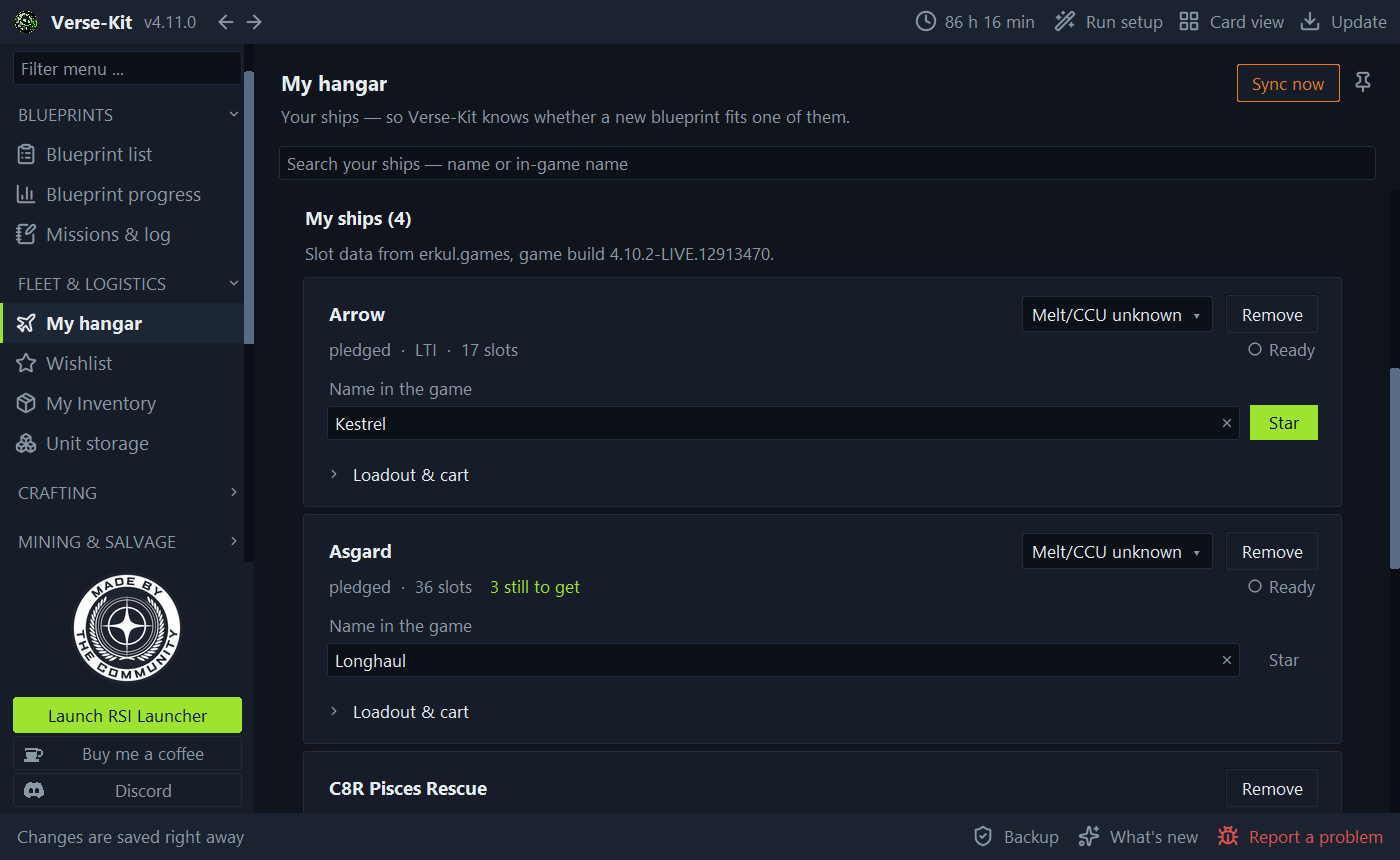
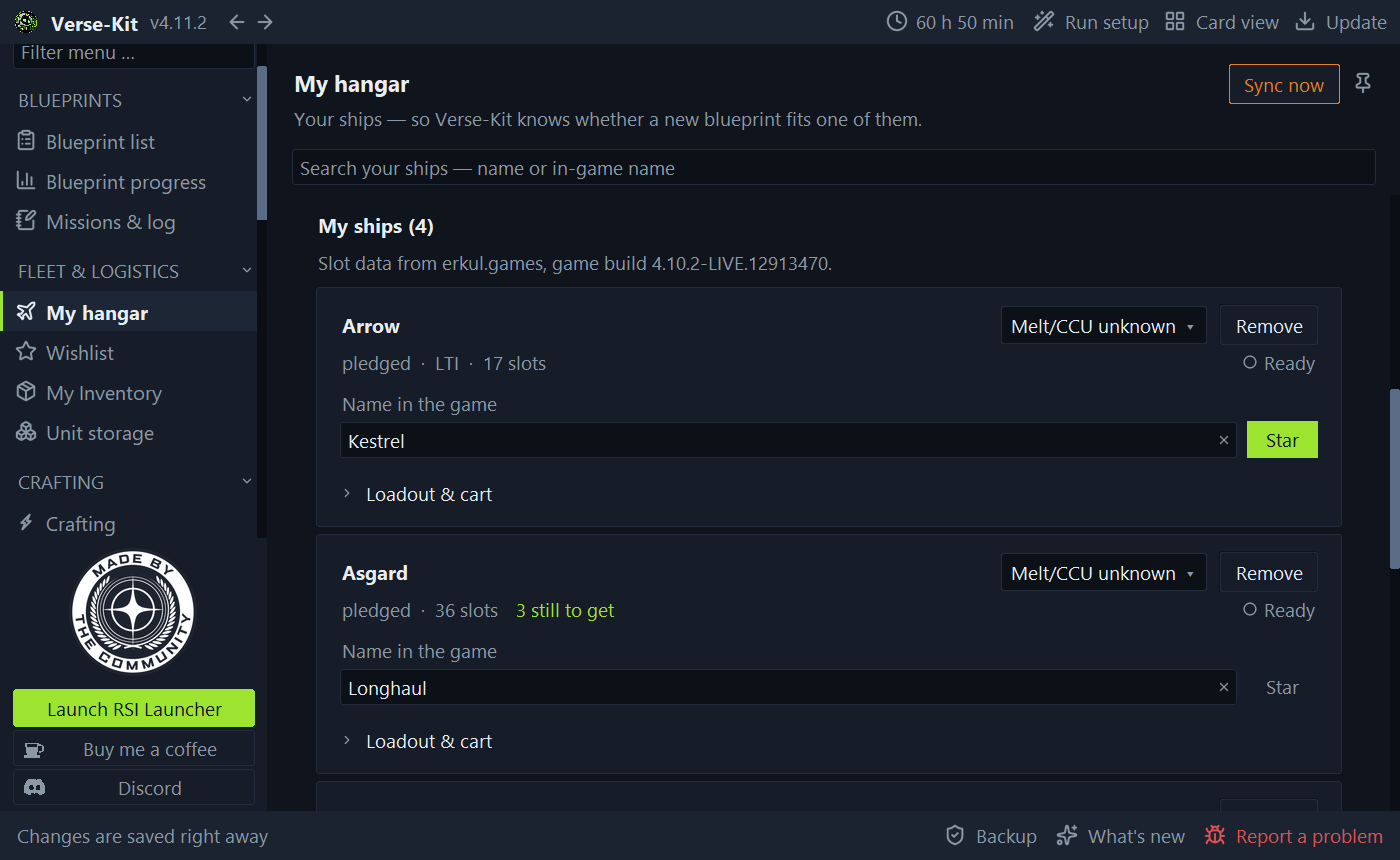
v4.11.2 — Hangar ohne Doppel, Versicherung im Basetool, Scanner liest mehr
Version, CHANGELOG (de/en, Vorspann), Hangar-Bilder de/en.

diff --git a/sc_bp_watcher.py b/sc_bp_watcher.py
@@ -60,7 +60,7 @@ try:
 except ImportError:
     winsound = None
 
-__version__ = '4.11.1'
+__version__ = '4.11.2'
 
 # Zeitpunkt des Programmstarts — misst, wie lange das Programm schon läuft
 # (siehe `Overlay.AUTO_UPDATE_VISIBLE_S`).

diff --git a/CHANGELOG.md b/CHANGELOG.md
@@ -6,7 +6,12 @@ Alle wichtigen Änderungen an diesem Projekt werden hier dokumentiert.
 
 Das Projekt nutzt SemVer: `MAJOR.MINOR.PATCH`.
 
-## Unveröffentlicht
+## v4.11.2 - 2026-10-19
+
+> Im Hangar entstehen keine Doppel mehr, wenn Schiffe aus dem Basetool
+> und dieselben aus einer JSON- oder CSV-Datei zusammenkommen, und die
+> Versicherung kommt im Basetool an. Dazu liest der Signatur-Scanner ab
+> Werk deutlich mehr — dank eingesandter Scan-Bilder.
 
 ### Verbessert
 

diff --git a/CHANGELOG.en.md b/CHANGELOG.en.md
@@ -6,7 +6,12 @@ All notable changes to this project are documented here.
 
 The project follows SemVer: `MAJOR.MINOR.PATCH`.
 
-## Unreleased
+## v4.11.2 - 2026-10-19
+
+> The hangar no longer creates duplicates when ships from the Basetool
+> meet the same ships from a JSON or CSV file, and insurance now reaches
+> the Basetool. The signature scanner also reads much more out of the box,
+> thanks to submitted scan images.
 
 ### Improved
 
